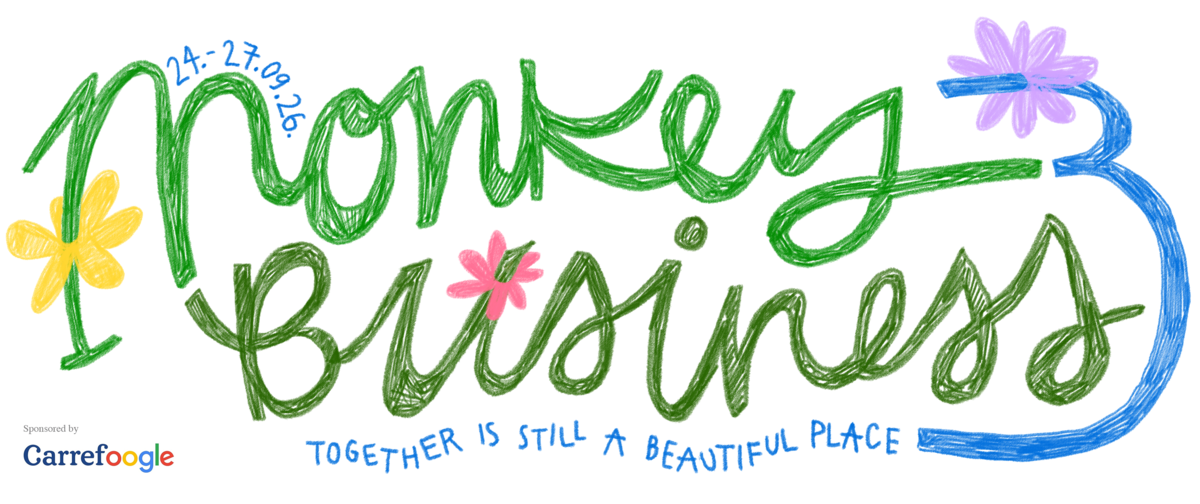
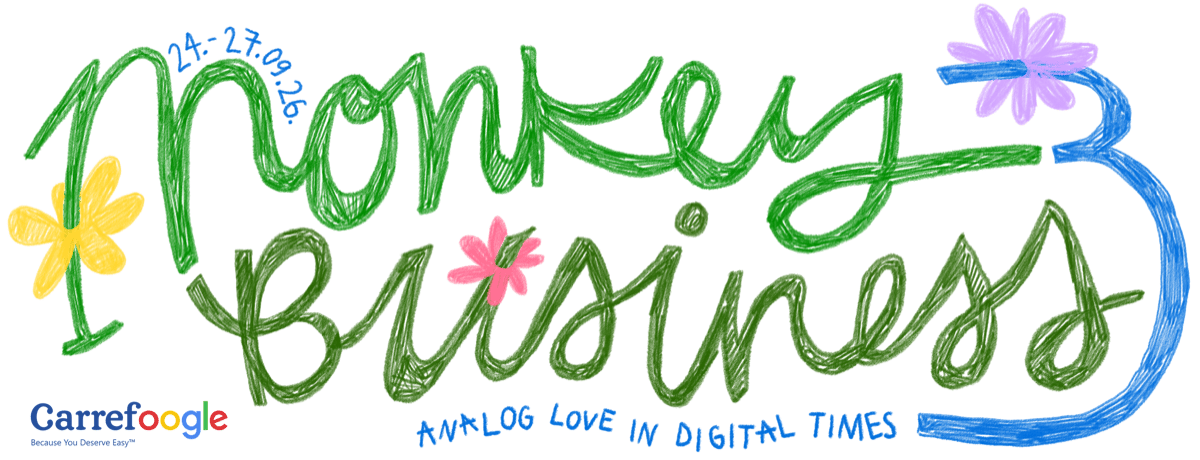
Replace cover image with new "Analog love in digital times" artwork

diff --git a/festival-2026-es.html b/festival-2026-es.html
@@ -7,9 +7,9 @@
     <link rel="apple-touch-icon" href="apple-touch-icon.png">
     <meta name="robots" content="noindex, nofollow">
     <meta name="viewport" content="width=device-width, initial-scale=1.0">
-    <link rel="stylesheet" href="assets/css/base.css?v=5e1e32bf" />
-    <link rel="stylesheet" href="assets/css/gov-portal.css?v=5e1e32bf" />
-    <link rel="stylesheet" href="assets/css/gov-content.css?v=5e1e32bf" />
+    <link rel="stylesheet" href="assets/css/base.css?v=1ca47b79" />
+    <link rel="stylesheet" href="assets/css/gov-portal.css?v=1ca47b79" />
+    <link rel="stylesheet" href="assets/css/gov-content.css?v=1ca47b79" />
 
     <!-- Open Graph Meta Tags -->
     <meta property="og:type" content="website">
@@ -33,7 +33,7 @@
               <div class="text-block-section">
 
                 <div style="margin-bottom: 20px;">
-                  <img src="assets/images/festival-2026/MB26_1.png" alt="Monkey Business 3 — Together is still a beautiful place" style="max-width: 100%; margin: 0;" />
+                  <img src="assets/images/festival-2026/MB26_1.png" alt="Monkey Business 3 — Analog love in digital times" style="max-width: 100%; margin: 0;" />
                   <div style="text-align: right; margin-top: 6px; display: flex; align-items: center; justify-content: flex-end; gap: 4px; font-size: 10px; color: #bbb; line-height: 1;">
                     <span>Patrocinado por</span>
                     <img src="assets/images/logos/carrefoogle-logo.jpeg" alt="Carrefoogle" style="height: 14px; opacity: 0.6; margin: 0;" />
@@ -438,6 +438,6 @@
       </div>
     </div>
 
-    <script src="assets/js/gov-layout.js?v=5e1e32bf"></script>
+    <script src="assets/js/gov-layout.js?v=1ca47b79"></script>
   </body>
 </html>

diff --git a/festival-2026-ca.html b/festival-2026-ca.html
@@ -7,9 +7,9 @@
     <link rel="apple-touch-icon" href="apple-touch-icon.png">
     <meta name="robots" content="noindex, nofollow">
     <meta name="viewport" content="width=device-width, initial-scale=1.0">
-    <link rel="stylesheet" href="assets/css/base.css?v=5e1e32bf" />
-    <link rel="stylesheet" href="assets/css/gov-portal.css?v=5e1e32bf" />
-    <link rel="stylesheet" href="assets/css/gov-content.css?v=5e1e32bf" />
+    <link rel="stylesheet" href="assets/css/base.css?v=1ca47b79" />
+    <link rel="stylesheet" href="assets/css/gov-portal.css?v=1ca47b79" />
+    <link rel="stylesheet" href="assets/css/gov-content.css?v=1ca47b79" />
 
     <!-- Open Graph Meta Tags -->
     <meta property="og:type" content="website">
@@ -33,7 +33,7 @@
               <div class="text-block-section">
 
                 <div style="margin-bottom: 20px;">
-                  <img src="assets/images/festival-2026/MB26_1.png" alt="Monkey Business 3 — Together is still a beautiful place" style="max-width: 100%; margin: 0;" />
+                  <img src="assets/images/festival-2026/MB26_1.png" alt="Monkey Business 3 — Analog love in digital times" style="max-width: 100%; margin: 0;" />
                   <div style="text-align: right; margin-top: 6px; display: flex; align-items: center; justify-content: flex-end; gap: 4px; font-size: 10px; color: #bbb; line-height: 1;">
                     <span>Patrocinat per</span>
                     <img src="assets/images/logos/carrefoogle-logo.jpeg" alt="Carrefoogle" style="height: 14px; opacity: 0.6; margin: 0;" />
@@ -438,6 +438,6 @@
       </div>
     </div>
 
-    <script src="assets/js/gov-layout.js?v=5e1e32bf"></script>
+    <script src="assets/js/gov-layout.js?v=1ca47b79"></script>
   </body>
 </html>

diff --git a/festival-2026.html b/festival-2026.html
@@ -7,9 +7,9 @@
     <link rel="apple-touch-icon" href="apple-touch-icon.png">
     <meta name="robots" content="noindex, nofollow">
     <meta name="viewport" content="width=device-width, initial-scale=1.0">
-    <link rel="stylesheet" href="assets/css/base.css?v=5e1e32bf" />
-    <link rel="stylesheet" href="assets/css/gov-portal.css?v=5e1e32bf" />
-    <link rel="stylesheet" href="assets/css/gov-content.css?v=5e1e32bf" />
+    <link rel="stylesheet" href="assets/css/base.css?v=1ca47b79" />
+    <link rel="stylesheet" href="assets/css/gov-portal.css?v=1ca47b79" />
+    <link rel="stylesheet" href="assets/css/gov-content.css?v=1ca47b79" />
 
     <!-- Open Graph Meta Tags -->
     <meta property="og:type" content="website">
@@ -33,7 +33,7 @@
               <div class="text-block-section">
 
                 <div style="margin-bottom: 20px;">
-                  <img src="assets/images/festival-2026/MB26_1.png" alt="Monkey Business 3 — Together is still a beautiful place" style="max-width: 100%; margin: 0;" />
+                  <img src="assets/images/festival-2026/MB26_1.png" alt="Monkey Business 3 — Analog love in digital times" style="max-width: 100%; margin: 0;" />
                 </div>
 
                 <div class="text-block-title">
@@ -455,6 +455,6 @@
       </div>
     </div>
 
-    <script src="assets/js/gov-layout.js?v=5e1e32bf"></script>
+    <script src="assets/js/gov-layout.js?v=1ca47b79"></script>
   </body>
 </html>

diff --git a/our-events.html b/our-events.html
@@ -6,9 +6,9 @@
     <link rel="icon" href="favicon.ico" type="image/x-icon">
     <link rel="apple-touch-icon" href="apple-touch-icon.png">
     <meta name="robots" content="noindex, nofollow">
-    <link rel="stylesheet" href="assets/css/base.css?v=5e1e32bf" />
-    <link rel="stylesheet" href="assets/css/gov-portal.css?v=5e1e32bf" />
-    <link rel="stylesheet" href="assets/css/gov-content.css?v=5e1e32bf" />
+    <link rel="stylesheet" href="assets/css/base.css?v=1ca47b79" />
+    <link rel="stylesheet" href="assets/css/gov-portal.css?v=1ca47b79" />
+    <link rel="stylesheet" href="assets/css/gov-content.css?v=1ca47b79" />
     <meta name="viewport" content="width=device-width, initial-scale=1.0">
 
     <!-- Open Graph Meta Tags -->
@@ -66,7 +66,7 @@
       </div>
     </div>
 
-    <script src="assets/js/gov-layout.js?v=5e1e32bf"></script>
-    <script src="assets/js/random-logo.js?v=5e1e32bf"></script>
+    <script src="assets/js/gov-layout.js?v=1ca47b79"></script>
+    <script src="assets/js/random-logo.js?v=1ca47b79"></script>
   </body>
 </html>

diff --git a/bureau-archives.html b/bureau-archives.html
@@ -6,9 +6,9 @@
     <link rel="icon" href="favicon.ico" type="image/x-icon">
     <link rel="apple-touch-icon" href="apple-touch-icon.png">
     <meta name="robots" content="noindex, nofollow">
-    <link rel="stylesheet" href="assets/css/base.css?v=5e1e32bf" />
-    <link rel="stylesheet" href="assets/css/gov-portal.css?v=5e1e32bf" />
-    <link rel="stylesheet" href="assets/css/gov-content.css?v=5e1e32bf" />
+    <link rel="stylesheet" href="assets/css/base.css?v=1ca47b79" />
+    <link rel="stylesheet" href="assets/css/gov-portal.css?v=1ca47b79" />
+    <link rel="stylesheet" href="assets/css/gov-content.css?v=1ca47b79" />
     <meta name="viewport" content="width=device-width, initial-scale=1.0">
   </head>
   <body>
@@ -82,7 +82,7 @@
       </div>
     </div>
 
-    <script src="assets/js/gov-layout.js?v=5e1e32bf"></script>
-    <script src="assets/js/random-logo.js?v=5e1e32bf"></script>
+    <script src="assets/js/gov-layout.js?v=1ca47b79"></script>
+    <script src="assets/js/random-logo.js?v=1ca47b79"></script>
   </body>
 </html>

diff --git a/important-reminder-2026-2-ca.html b/important-reminder-2026-2-ca.html
@@ -7,9 +7,9 @@
     <link rel="apple-touch-icon" href="apple-touch-icon.png">
     <meta name="robots" content="noindex, nofollow">
     <meta name="viewport" content="width=device-width, initial-scale=1.0">
-    <link rel="stylesheet" href="assets/css/base.css?v=5e1e32bf" />
-    <link rel="stylesheet" href="assets/css/gov-portal.css?v=5e1e32bf" />
-    <link rel="stylesheet" href="assets/css/gov-content.css?v=5e1e32bf" />
+    <link rel="stylesheet" href="assets/css/base.css?v=1ca47b79" />
+    <link rel="stylesheet" href="assets/css/gov-portal.css?v=1ca47b79" />
+    <link rel="stylesheet" href="assets/css/gov-content.css?v=1ca47b79" />
   </head>
   <body>
     <div class="page-container">
@@ -83,7 +83,7 @@
       </div>
     </div>
 
-    <script src="assets/js/gov-layout.js?v=5e1e32bf"></script>
-    <script src="assets/js/important-reminder-2.js?v=5e1e32bf"></script>
+    <script src="assets/js/gov-layout.js?v=1ca47b79"></script>
+    <script src="assets/js/important-reminder-2.js?v=1ca47b79"></script>
   </body>
 </html>

diff --git a/important-reminder-2026-2-es.html b/important-reminder-2026-2-es.html
@@ -7,9 +7,9 @@
     <link rel="apple-touch-icon" href="apple-touch-icon.png">
     <meta name="robots" content="noindex, nofollow">
     <meta name="viewport" content="width=device-width, initial-scale=1.0">
-    <link rel="stylesheet" href="assets/css/base.css?v=5e1e32bf" />
-    <link rel="stylesheet" href="assets/css/gov-portal.css?v=5e1e32bf" />
-    <link rel="stylesheet" href="assets/css/gov-content.css?v=5e1e32bf" />
+    <link rel="stylesheet" href="assets/css/base.css?v=1ca47b79" />
+    <link rel="stylesheet" href="assets/css/gov-portal.css?v=1ca47b79" />
+    <link rel="stylesheet" href="assets/css/gov-content.css?v=1ca47b79" />
   </head>
   <body>
     <div class="page-container">
@@ -83,7 +83,7 @@
       </div>
     </div>
 
-    <script src="assets/js/gov-layout.js?v=5e1e32bf"></script>
-    <script src="assets/js/important-reminder-2.js?v=5e1e32bf"></script>
+    <script src="assets/js/gov-layout.js?v=1ca47b79"></script>
+    <script src="assets/js/important-reminder-2.js?v=1ca47b79"></script>
   </body>
 </html>

diff --git a/important-reminder-2026-2.html b/important-reminder-2026-2.html
@@ -7,9 +7,9 @@
     <link rel="apple-touch-icon" href="apple-touch-icon.png">
     <meta name="robots" content="noindex, nofollow">
     <meta name="viewport" content="width=device-width, initial-scale=1.0">
-    <link rel="stylesheet" href="assets/css/base.css?v=5e1e32bf" />
-    <link rel="stylesheet" href="assets/css/gov-portal.css?v=5e1e32bf" />
-    <link rel="stylesheet" href="assets/css/gov-content.css?v=5e1e32bf" />
+    <link rel="stylesheet" href="assets/css/base.css?v=1ca47b79" />
+    <link rel="stylesheet" href="assets/css/gov-portal.css?v=1ca47b79" />
+    <link rel="stylesheet" href="assets/css/gov-content.css?v=1ca47b79" />
   </head>
   <body>
     <div class="page-container">
@@ -83,7 +83,7 @@
       </div>
     </div>
 
-    <script src="assets/js/gov-layout.js?v=5e1e32bf"></script>
-    <script src="assets/js/important-reminder-2.js?v=5e1e32bf"></script>
+    <script src="assets/js/gov-layout.js?v=1ca47b79"></script>
+    <script src="assets/js/important-reminder-2.js?v=1ca47b79"></script>
   </body>
 </html>

diff --git a/bureau-history-ca.html b/bureau-history-ca.html
@@ -6,9 +6,9 @@
     <link rel="icon" href="favicon.ico" type="image/x-icon">
     <link rel="apple-touch-icon" href="apple-touch-icon.png">
     <meta name="robots" content="noindex, nofollow">
-    <link rel="stylesheet" href="assets/css/base.css?v=5e1e32bf" />
-    <link rel="stylesheet" href="assets/css/gov-portal.css?v=5e1e32bf" />
-    <link rel="stylesheet" href="assets/css/gov-content.css?v=5e1e32bf" />
+    <link rel="stylesheet" href="assets/css/base.css?v=1ca47b79" />
+    <link rel="stylesheet" href="assets/css/gov-portal.css?v=1ca47b79" />
+    <link rel="stylesheet" href="assets/css/gov-content.css?v=1ca47b79" />
     <meta name="viewport" content="width=device-width, initial-scale=1.0">
 
     <!-- Open Graph Meta Tags -->
@@ -132,6 +132,6 @@
       </div>
     </div>
 
-    <script src="assets/js/gov-layout.js?v=5e1e32bf"></script>
+    <script src="assets/js/gov-layout.js?v=1ca47b79"></script>
   </body>
 </html>

diff --git a/bureau-history.html b/bureau-history.html
@@ -6,9 +6,9 @@
     <link rel="icon" href="favicon.ico" type="image/x-icon">
     <link rel="apple-touch-icon" href="apple-touch-icon.png">
     <meta name="robots" content="noindex, nofollow">
-    <link rel="stylesheet" href="assets/css/base.css?v=5e1e32bf" />
-    <link rel="stylesheet" href="assets/css/gov-portal.css?v=5e1e32bf" />
-    <link rel="stylesheet" href="assets/css/gov-content.css?v=5e1e32bf" />
+    <link rel="stylesheet" href="assets/css/base.css?v=1ca47b79" />
+    <link rel="stylesheet" href="assets/css/gov-portal.css?v=1ca47b79" />
+    <link rel="stylesheet" href="assets/css/gov-content.css?v=1ca47b79" />
     <meta name="viewport" content="width=device-width, initial-scale=1.0">
 
     <!-- Open Graph Meta Tags -->
@@ -132,6 +132,6 @@
       </div>
     </div>
 
-    <script src="assets/js/gov-layout.js?v=5e1e32bf"></script>
+    <script src="assets/js/gov-layout.js?v=1ca47b79"></script>
   </body>
 </html>

diff --git a/important-reminder-2-ca.html b/important-reminder-2-ca.html
@@ -7,9 +7,9 @@
     <link rel="apple-touch-icon" href="apple-touch-icon.png">
     <meta name="robots" content="noindex, nofollow">
     <meta name="viewport" content="width=device-width, initial-scale=1.0">
-    <link rel="stylesheet" href="assets/css/base.css?v=5e1e32bf">
-    <link rel="stylesheet" href="assets/css/festival-base.css?v=5e1e32bf" />
-    <link rel="stylesheet" href="assets/css/festival-2025.css?v=5e1e32bf" />
+    <link rel="stylesheet" href="assets/css/base.css?v=1ca47b79">
+    <link rel="stylesheet" href="assets/css/festival-base.css?v=1ca47b79" />
+    <link rel="stylesheet" href="assets/css/festival-2025.css?v=1ca47b79" />
   </head>
   <body>
     <div class="d-flex-center">
@@ -63,6 +63,6 @@
         </div>
       </div>
     </div>
-    <script src="assets/js/important-reminder-2.js?v=5e1e32bf"></script>
+    <script src="assets/js/important-reminder-2.js?v=1ca47b79"></script>
   </body>
 </html>

diff --git a/important-reminder-2.html b/important-reminder-2.html
@@ -7,9 +7,9 @@
     <link rel="apple-touch-icon" href="apple-touch-icon.png">
     <meta name="robots" content="noindex, nofollow">
     <meta name="viewport" content="width=device-width, initial-scale=1.0">
-    <link rel="stylesheet" href="assets/css/base.css?v=5e1e32bf">
-    <link rel="stylesheet" href="assets/css/festival-base.css?v=5e1e32bf" />
-    <link rel="stylesheet" href="assets/css/festival-2025.css?v=5e1e32bf" />
+    <link rel="stylesheet" href="assets/css/base.css?v=1ca47b79">
+    <link rel="stylesheet" href="assets/css/festival-base.css?v=1ca47b79" />
+    <link rel="stylesheet" href="assets/css/festival-2025.css?v=1ca47b79" />
   </head>
   <body>
     <div class="d-flex-center">
@@ -63,6 +63,6 @@
         </div>
       </div>
     </div>
-    <script src="assets/js/important-reminder-2.js?v=5e1e32bf"></script>
+    <script src="assets/js/important-reminder-2.js?v=1ca47b79"></script>
   </body>
 </html>
